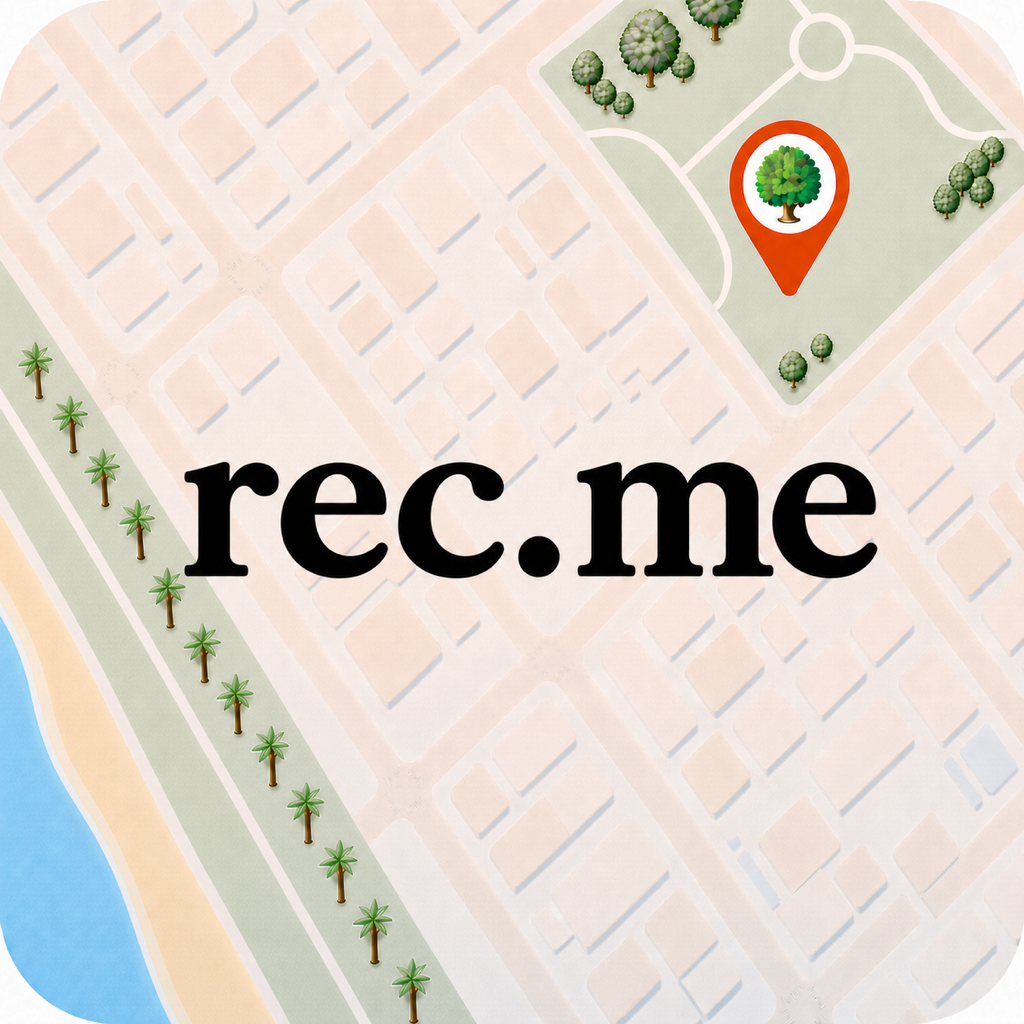
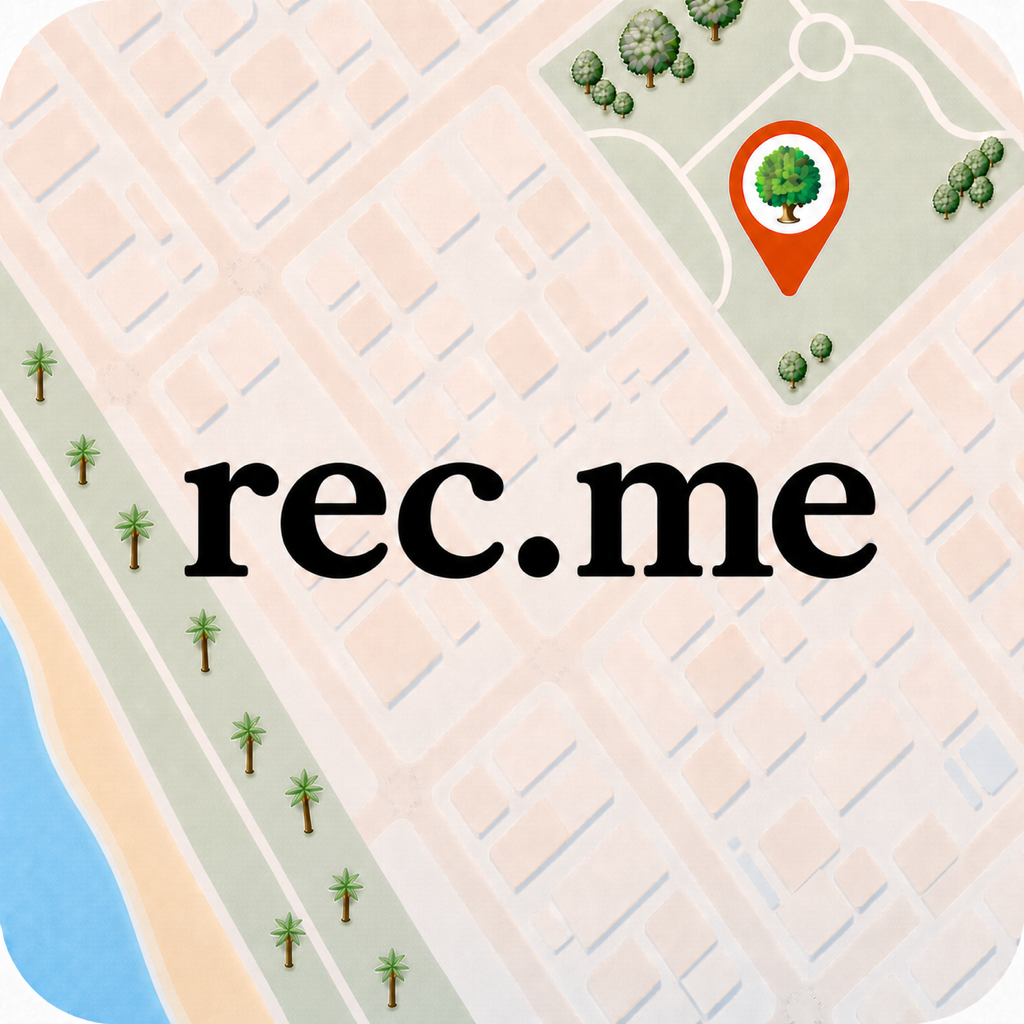
refine(REC-343): make selected palm row organic

diff --git a/preview/app-icon-candidates/rec-343/README.md b/preview/app-icon-candidates/rec-343/README.md
@@ -1,15 +1,21 @@
 # REC-343 app icon candidates
 
-These candidates preserve the current production icon while the new warm-map direction is reviewed.
+The revised original warm-map direction is the selected candidate. The Liquid Glass version remains here as the comparison candidate from the review; the current production icon is unchanged pending explicit promotion approval.
 
-`source/recme-warm-map-original-source-1254.png` is a byte-for-byte copy of the supplied image. The original Icon Composer variant uses a 1024 px normalization of that source without visual restyling.
+`source/recme-warm-map-original-source-1254.png` is a byte-for-byte copy of the initially supplied image. `source/recme-warm-map-selected-source-1254.png` is the selected revision with eight less-symmetrical palms contained inside the left sage-green strip. The selected candidate's Icon Composer source is a 1024 px normalization of that revision.
 
 ## Variants
 
-- `RecmeWarmMapOriginal.icon` keeps the supplied artwork unchanged apart from deterministic resizing to an opaque 1024 × 1024 source. Icon Composer specular, blur, translucency, and shadow effects are disabled.
+- `RecmeWarmMapOriginal.icon` contains the selected warm-map revision with a sparse, irregular palm row. Icon Composer specular, blur, translucency, and shadow effects are disabled.
 - `RecmeWarmMapLiquidGlass.icon` uses a high-fidelity generated restyle of the same map composition, then applies restrained Icon Composer material settings: specular on, 12% blur, 6% translucency, and 8% neutral shadow.
 
-Each `.icon` document contains its opaque 1024 px source; the `previews` folder contains 180 px and 87 px legibility checks. Neither candidate replaces `Wander/Resources/AppIcon.icon` or the production asset catalog.
+Each `.icon` document contains its opaque 1024 px source; the `previews` folder contains 180 px and 87 px legibility checks. Neither candidate replaces `Wander/Resources/AppIcon.icon` or the production asset catalog yet.
+
+## Selected palm revision prompt
+
+Built-in image editing was used with the original supplied image as the edit target:
+
+> Edit only the palm trees running down the diagonal sage-green strip along the left side. Reduce them from the current dense, evenly spaced row to approximately eight palms. Arrange those palms with intentionally irregular natural spacing, varied gaps, subtle differences in height and crown size, and slight varied leans so they do not look copied or symmetrical. Preserve absolutely everything else in appearance. Every edited palm, including its full trunk, leaves, and shadow, must remain completely within the diagonal sage-green strip.
 
 ## Liquid Glass image-generation prompt
 
